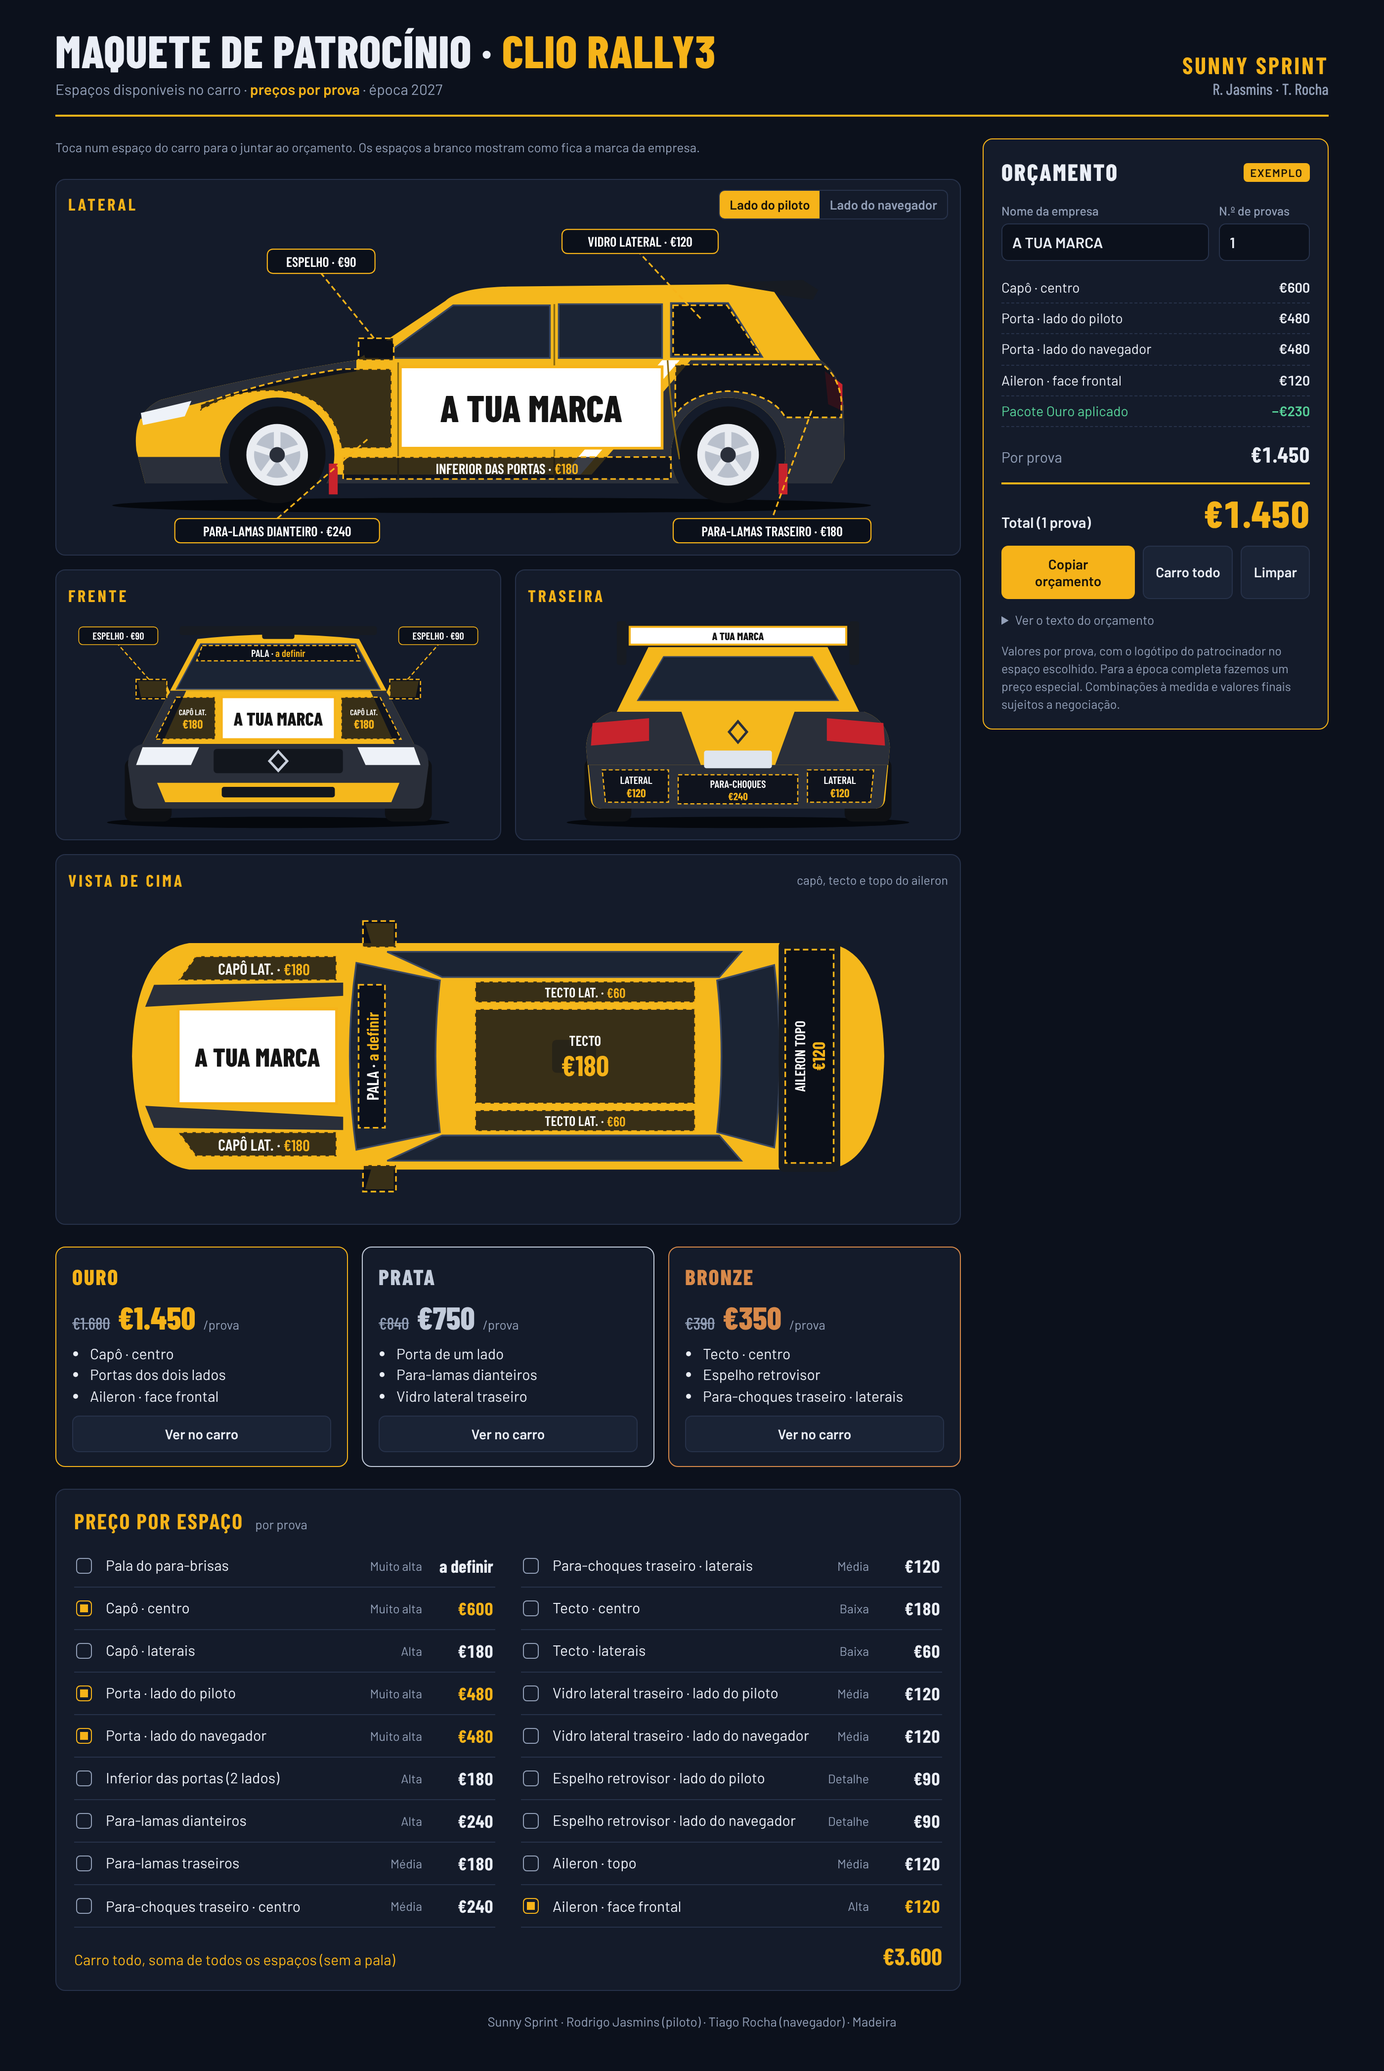
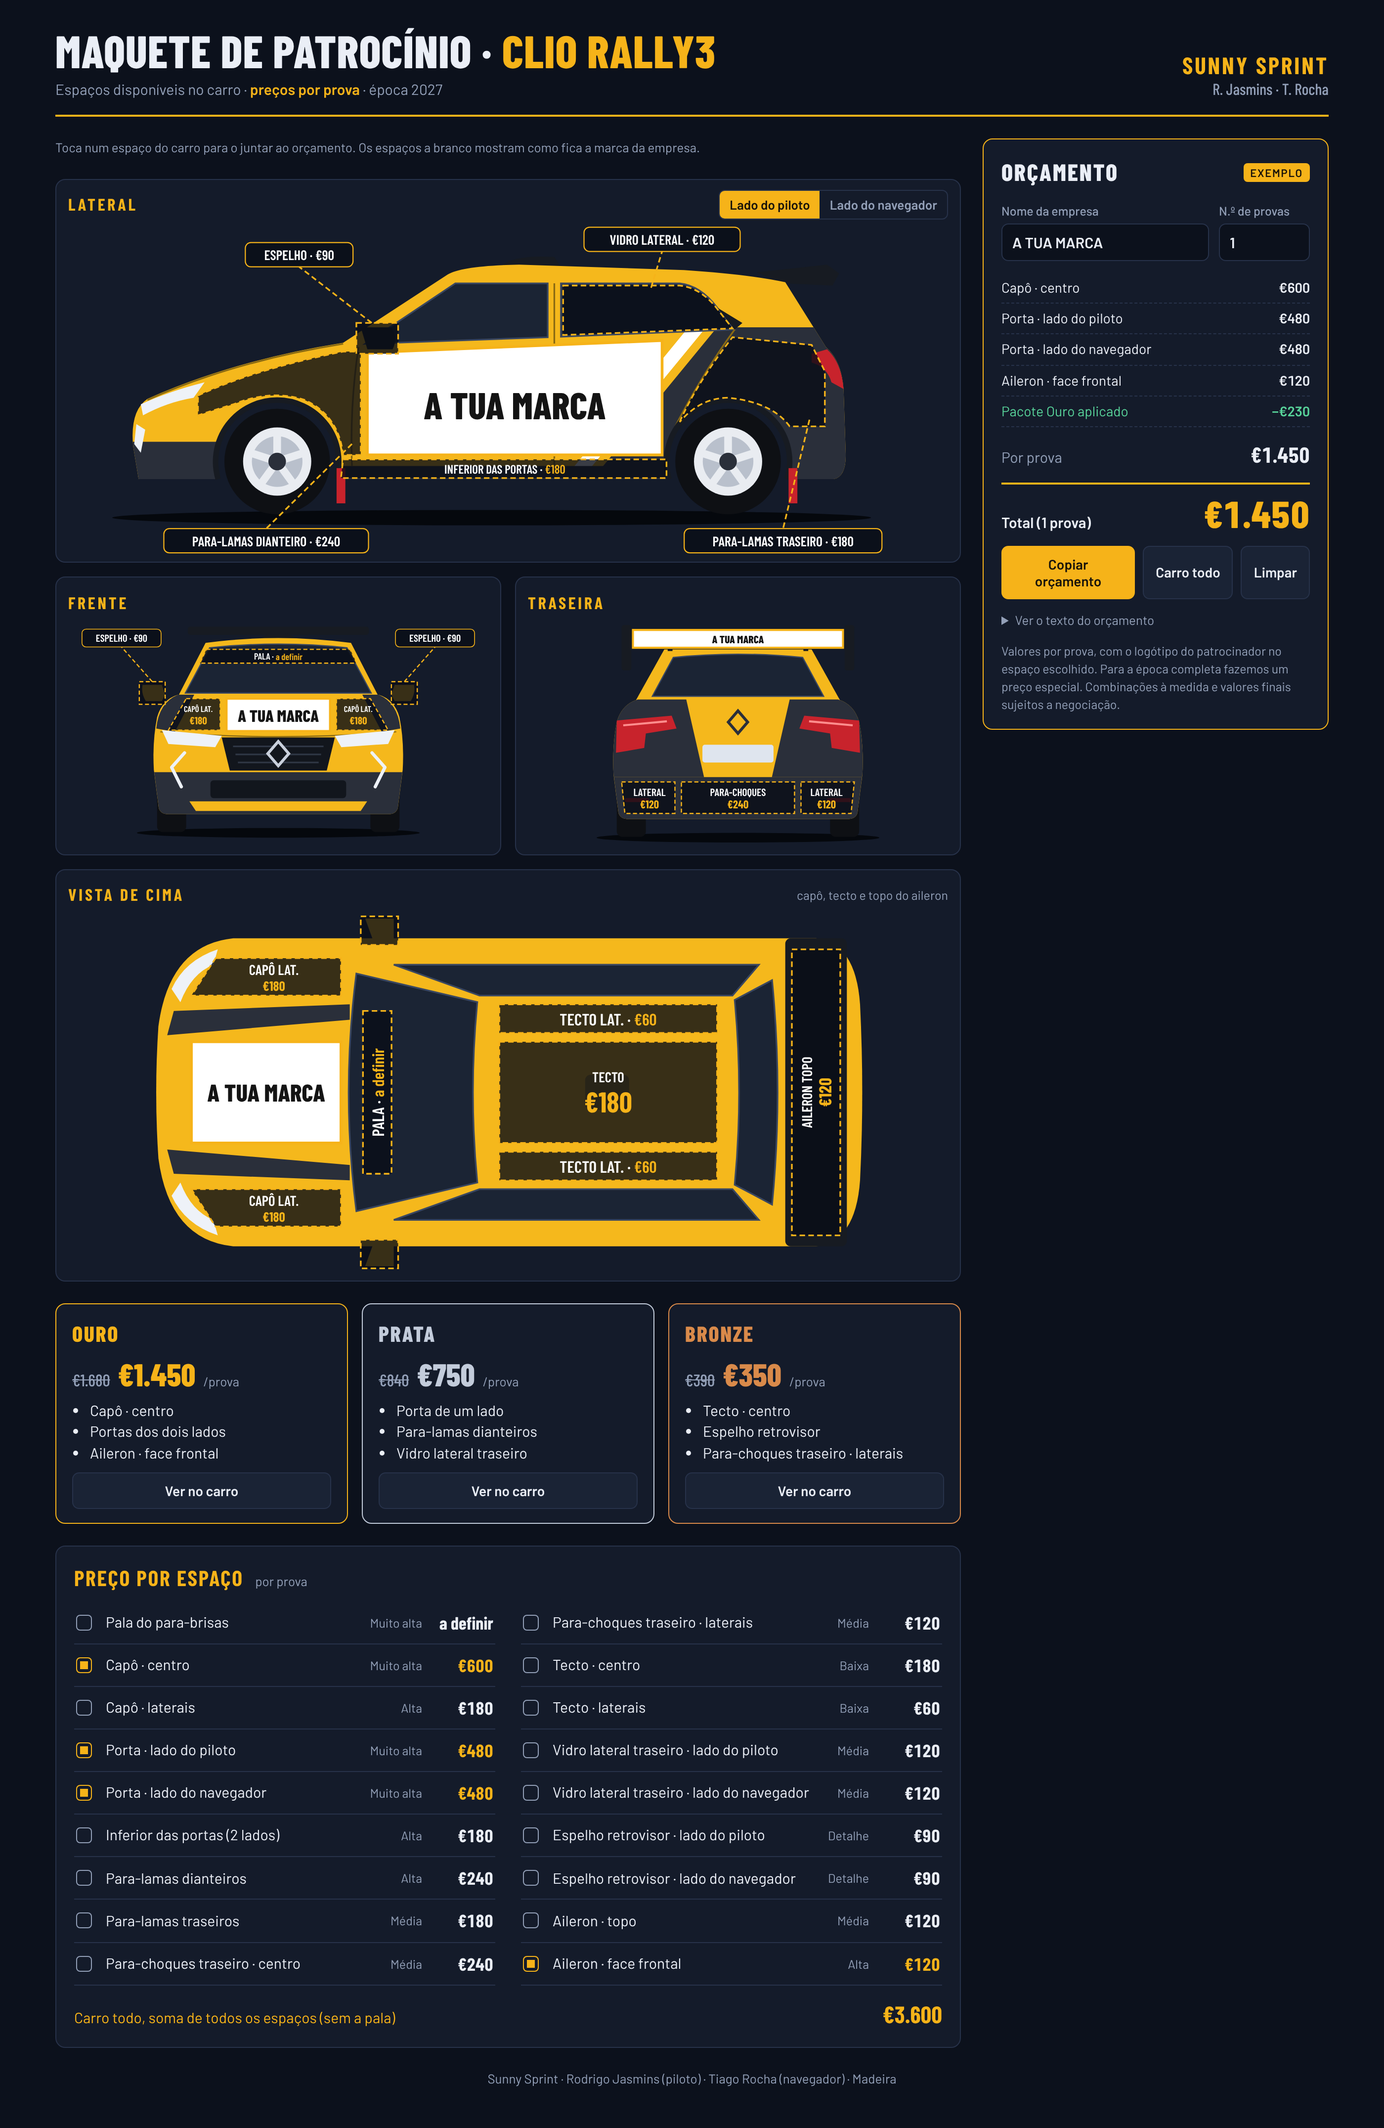
Maquete de patrocínio: desenhos redesenhados como Renault Clio 2024
Claude-Session: https://claude.ai/code/session_019YqaTtpEMJRoTKyhrNHvgL

diff --git a/patrocinio/maquete.html b/patrocinio/maquete.html
@@ -195,89 +195,104 @@ const esc = s => s.replace(/[&<>"]/g, c => ({'&':'&amp;','<':'&lt;','>':'&gt;','
 const price = id => Z[id].p == null ? 'a definir' : eur(Z[id].p);
 
 /* ---------- Desenhos do carro ---------- */
-const wheel = (x,y) => `<circle cx="${x}" cy="${y}" r="44" fill="#0e1014"/><circle cx="${x}" cy="${y}" r="28" fill="#e9ecf1"/>
-  <circle cx="${x}" cy="${y}" r="21" fill="#b9c0cc"/>${[0,72,144,216,288].map(a=>`<rect x="${x-3}" y="${y-27}" width="6" height="27" fill="#e9ecf1" transform="rotate(${a} ${x} ${y})"/>`).join('')}
-  <circle cx="${x}" cy="${y}" r="7" fill="#2a2f3a"/>`;
-const BODY = 'M70 262 L62 232 Q58 198 84 186 Q180 162 262 150 L343 96 Q356 84 400 83 L600 81 L642 88 L684 150 Q702 162 705 192 L706 240 L694 262 L645 262 A52 52 0 1 0 555 262 L235 262 A52 52 0 1 0 145 262 Z';
+/* Renault Clio (2024) à escala real: 4,05 m de comprimento, 1,80 m de largura, 2,58 m entre eixos. */
+const wheel = (x,y) => `<circle cx="${x}" cy="${y}" r="48" fill="#0e1014"/><circle cx="${x}" cy="${y}" r="31" fill="#e9ecf1"/>
+  <circle cx="${x}" cy="${y}" r="23" fill="#b9c0cc"/>${[0,72,144,216,288].map(a=>`<rect x="${x-3.5}" y="${y-30}" width="7" height="30" fill="#e9ecf1" transform="rotate(${a} ${x} ${y})"/>`).join('')}
+  <circle cx="${x}" cy="${y}" r="8" fill="#2a2f3a"/>`;
+const BODY = 'M64 248 L59 218 Q56 186 72 175 Q150 140 250 124 L345 62 Q358 54 410 53 L560 58 Q620 62 652 69 L689 128 Q703 140 705 166 L707 226 Q707 246 696 248 L653.7 248 A56 56 0 1 0 546.3 248 L243.7 248 A56 56 0 1 0 136.3 248 Z';
+const LOWER = 'M136 122 H384 Q404 128 410 150 Q416 180 414 215 L408 262 Q406 270 396 270 H124 Q114 270 112 262 L106 215 Q104 180 110 150 Q116 128 136 122Z';
+const BUMPER = 'M106.5 218 H413.5 L408 262 Q406 270 396 270 H124 Q114 270 112 262Z';
+const TYRES = '<rect x="110" y="236" width="36" height="56" rx="7" fill="#0e1014"/><rect x="374" y="236" width="36" height="56" rx="7" fill="#0e1014"/>';
 const CAR = {
 side:`<defs><clipPath id="sb"><path d="${BODY}"/></clipPath></defs>
-  <ellipse cx="385" cy="282" rx="345" ry="7" fill="#05080d"/>
-  <path d="M585 80 L668 77 L682 86 L677 95 L642 90 L600 84Z" fill="#171b22"/>
+  <ellipse cx="385" cy="283" rx="345" ry="7" fill="#05080d"/>
+  <path d="M626 60 L690 53 L701 61 L695 72 L650 70Z" fill="#171b22"/>
+  <path d="M394 54 Q406 44 442 46 L448 55Z" fill="#171b22"/>
   <path d="${BODY}" fill="var(--car)"/>
   <g clip-path="url(#sb)">
-    <path d="M462 270 L566 150 H720 V270Z" fill="var(--car-dark)"/><path d="M436 270 L540 150 H556 L452 270Z" fill="#fff"/>
-    <path d="M50 238 H150 V270 H50Z" fill="var(--car-dark)"/><path d="M230 254 H560 V270 H230Z" fill="var(--car-dark)"/>
-    <path d="M60 205 Q150 178 262 160 L262 150 Q150 166 60 192Z" fill="var(--car-dark)"/>
+    <path d="M470 256 L590 110 H720 V256Z" fill="var(--car-dark)"/><path d="M444 256 L564 110 H580 L460 256Z" fill="#fff"/>
+    <path d="M50 214 H150 V256 H50Z" fill="var(--car-dark)"/><path d="M236 236 H556 V256 H236Z" fill="var(--car-dark)"/>
   </g>
-  <path d="M284 148 L350 100 H438 V148Z M446 99 H540 V148 H446Z M548 98 H600 L631 147 H548Z" fill="var(--glass)" stroke="#3a4760" stroke-width="1.5"/>
-  <path d="M66 198 L112 187 L106 201 L68 209Z" fill="#eef2f8"/><path d="M688 160 L704 172 V196 L691 190Z" fill="#c8232c"/>
-  <path d="M300 152 V258 M442 99 V258 M545 150 Q548 200 556 240" stroke="#8a6a12" stroke-width="1.5" fill="none"/>
-  <path d="M266 132 H294 Q298 140 294 148 H270Z" fill="#171b22"/>
-  <rect x="237" y="244" width="8" height="28" fill="#c8232c"/><rect x="646" y="244" width="8" height="28" fill="#c8232c"/>
-  ${wheel(190,236)}${wheel(600,236)}`,
-front:`<ellipse cx="260" cy="293" rx="212" ry="7" fill="#05080d"/>
-  <rect x="70" y="214" width="58" height="78" rx="10" fill="#0e1014"/><rect x="392" y="214" width="58" height="78" rx="10" fill="#0e1014"/>
-  <rect x="138" y="50" width="244" height="11" rx="3" fill="#171b22"/>
-  <path d="M160 66 Q260 55 360 66 L394 130 H126Z" fill="var(--car)"/>
-  <path d="M164 72 H356 L386 128 H134Z" fill="var(--glass)" stroke="#3a4760" stroke-width="1.5"/>
-  <rect x="240" y="55" width="40" height="11" rx="3" fill="#171b22"/>
-  <path d="M126 130 H394 L428 196 H92Z" fill="var(--car)"/>
-  <path d="M126 130 H146 L116 196 H92Z M394 130 H374 L404 196 H428Z" fill="var(--car-dark)"/>
-  <path d="M92 196 H428 Q446 200 446 222 L440 268 Q438 276 428 276 H92 Q82 276 80 268 L74 222 Q74 200 92 196Z" fill="var(--car-dark)"/>
-  <path d="M92 200 H162 L152 222 H84Z M428 200 H358 L368 222 H436Z" fill="#eef2f8"/>
-  <rect x="180" y="202" width="160" height="30" rx="4" fill="#12161d"/>
-  <path d="M260 205 L271 217 L260 229 L249 217Z" fill="none" stroke="#c9d0dc" stroke-width="3"/>
-  <path d="M110 244 H410 L400 268 H120Z" fill="var(--car)"/><rect x="190" y="249" width="140" height="13" rx="3" fill="#12161d"/>
-  <path d="M86 118 H120 L126 132 L122 138 H90Z M434 118 H400 L394 132 L398 138 H430Z" fill="var(--car)"/>`,
-rear:`<ellipse cx="260" cy="293" rx="212" ry="7" fill="#05080d"/>
-  <rect x="70" y="214" width="58" height="78" rx="10" fill="#0e1014"/><rect x="392" y="214" width="58" height="78" rx="10" fill="#0e1014"/>
-  <path d="M152 70 Q260 60 368 70 L412 160 H108Z" fill="var(--car)"/>
-  <path d="M168 88 H352 L384 142 H136Z" fill="var(--glass)" stroke="#3a4760" stroke-width="1.5"/>
-  <path d="M104 156 H416 Q446 166 448 200 L442 266 Q440 276 428 276 H92 Q80 276 78 266 L72 200 Q74 166 104 156Z" fill="var(--car)"/>
-  <path d="M104 156 H190 L214 222 H74 L72 200 Q74 166 104 156Z M416 156 H330 L306 222 H446 L448 200 Q446 166 416 156Z" fill="var(--car-dark)"/>
-  <path d="M75 222 H445 L440 268 Q438 276 428 276 H92 Q82 276 80 268Z" fill="var(--car-dark)"/>
-  <path d="M80 170 L150 164 V192 L78 198Z M440 170 L370 164 V192 L442 198Z" fill="#c8232c"/>
-  <path d="M260 168 L271 181 L260 194 L249 181Z" fill="none" stroke="#2a2f3a" stroke-width="3"/>
-  <rect x="218" y="204" width="84" height="22" rx="3" fill="#dfe5ee"/>
-  <rect x="110" y="44" width="12" height="54" rx="3" fill="#171b22"/><rect x="398" y="44" width="12" height="54" rx="3" fill="#171b22"/>
-  <rect x="118" y="48" width="284" height="28" rx="4" fill="#171b22"/>`,
-top:`<path d="M270 44 h26 v20 h-20z M270 286 h26 v-20 h-20z" fill="var(--car)"/>
-  <path d="M110 62 Q60 70 58 165 Q60 260 110 268 L690 268 Q740 262 742 165 Q740 68 690 62 Z" fill="var(--car)"/>
-  <path d="M70 120 L250 110 V98 L78 100Z M70 210 L250 220 V232 L78 230Z" fill="var(--car-dark)"/>
-  <path d="M262 80 Q250 165 262 250 L338 234 Q330 165 338 96 Z M590 96 Q598 165 590 234 L642 248 Q652 165 642 82Z M290 70 H612 L592 93 H340Z M290 260 H612 L592 237 H340Z" fill="var(--glass)" stroke="#3a4760" stroke-width="1.5"/>
-  <rect x="440" y="150" width="40" height="30" rx="4" fill="#171b22" opacity=".35"/>
-  <rect x="646" y="60" width="56" height="210" rx="5" fill="#171b22"/>`
+  <path d="M270 125 L352 70 H436 V119Z M448 70 H556 Q575 72 590 92 L606 112 L448 118.5Z" fill="var(--glass)" stroke="#3a4760" stroke-width="1.5"/>
+  <path d="M590 92 L613 106 L606 112Z" fill="#171b22"/>
+  <path d="M66 180 Q92 168 124 160 L114 174 Q90 178 68 190Z" fill="#eef2f8"/>
+  <path d="M62 198 L70 203 L66 224 L60 216Z" fill="#eef2f8"/>
+  <path d="M676 134 L690 130 Q703 142 705 166 L694 160 Q690 146 676 142Z" fill="#c8232c"/>
+  <path d="M264 128 Q256 180 258 236 M442 70 V244 M606 112 Q578 150 552 200 M72 176 Q150 141 250 125" stroke="#8a6a12" stroke-width="1.5" fill="none"/>
+  <path d="M398 138 h26" stroke="#2a2f3a" stroke-width="4" stroke-linecap="round"/>
+  <path d="M266 110 H294 Q300 120 295 130 H272Z" fill="#171b22"/>
+  <path d="M136.3 248 A56 56 0 1 1 243.7 248 M546.3 248 A56 56 0 1 1 653.7 248" fill="none" stroke="#171b22" stroke-width="5"/>
+  <rect x="244" y="238" width="8" height="32" fill="#c8232c"/><rect x="655" y="238" width="8" height="32" fill="#c8232c"/>
+  ${wheel(190,232)}${wheel(600,232)}`,
+front:`<ellipse cx="260" cy="293" rx="175" ry="6" fill="#05080d"/>${TYRES}
+  <rect x="148" y="38" width="224" height="10" rx="3" fill="#171b22"/>
+  <path d="M238 52 Q260 38 282 52Z" fill="#171b22"/>
+  <path d="M170 58 Q260 46 350 58 L384 124 H136Z" fill="var(--car)"/>
+  <path d="M175 64 Q260 55 345 64 L375 120 H145Z" fill="var(--glass)" stroke="#3a4760" stroke-width="1.5"/>
+  <path d="${LOWER}" fill="var(--car)"/>
+  <path d="M136 122 H156 L132 168 L109 164 Q112 132 136 122Z M384 122 H364 L388 168 L411 164 Q408 132 384 122Z" fill="var(--car-dark)"/>
+  <path d="${BUMPER}" fill="var(--car-dark)"/>
+  <path d="M114 168 Q260 180 406 168" stroke="#8a6a12" stroke-width="1.5" fill="none"/>
+  <path d="M116 166 L190 173 L182 187 L124 183Z M404 166 L330 173 L338 187 L396 183Z" fill="#eef2f8"/>
+  <path d="M190 175 H330 L320 216 H200Z" fill="#12161d"/>
+  <path d="M204 186 H316 M207 196 H313 M210 206 H310" stroke="#2f3745" stroke-width="2"/>
+  <path d="M260 180 L273 195 L260 210 L247 195Z" fill="#12161d" stroke="#c9d0dc" stroke-width="3.5"/>
+  <path d="M144 194 L128 212 L140 236 M376 194 L392 212 L380 236" stroke="#eef2f8" stroke-width="4" fill="none" stroke-linejoin="round" stroke-linecap="round"/>
+  <rect x="176" y="228" width="168" height="22" rx="4" fill="#12161d"/>
+  <path d="M150 254 H370 L362 266 H158Z" fill="var(--car)"/>
+  <path d="M92 110 H116 L120 122 L116 130 H96 Q90 120 92 110Z M428 110 H404 L400 122 L404 130 H424 Q430 120 428 110Z" fill="var(--car)"/>`,
+rear:`<ellipse cx="260" cy="293" rx="175" ry="6" fill="#05080d"/>${TYRES}
+  <path d="M170 58 Q260 46 350 58 L388 126 H132Z" fill="var(--car)"/>
+  <path d="M180 70 Q260 62 340 70 L366 118 H154Z" fill="var(--glass)" stroke="#3a4760" stroke-width="1.5"/>
+  <path d="${LOWER}" fill="var(--car)"/>
+  <path d="M136 122 H196 L218 218 H106.5 L106 215 Q104 180 110 150 Q116 128 136 122Z M384 122 H324 L302 218 H413.5 L414 215 Q416 180 410 150 Q404 128 384 122Z" fill="var(--car-dark)"/>
+  <path d="${BUMPER}" fill="var(--car-dark)"/>
+  <path d="M110 148 L178 142 L184 158 L146 164 L144 182 L109 188Z M410 148 L342 142 L336 158 L374 164 L376 182 L411 188Z" fill="#c8232c"/>
+  <path d="M118 154 L172 149 M402 154 L348 149" stroke="#ff8d8d" stroke-width="2.5"/>
+  <path d="M260 136 L272 150 L260 164 L248 150Z" fill="none" stroke="#2a2f3a" stroke-width="3.5"/>
+  <rect x="216" y="178" width="88" height="22" rx="3" fill="#dfe5ee"/>
+  <rect x="120" y="244" width="30" height="5" rx="2" fill="#c8232c"/><rect x="370" y="244" width="30" height="5" rx="2" fill="#c8232c"/>
+  <path d="M176 62 V44 M344 62 V44" stroke="#171b22" stroke-width="6"/>
+  <rect x="116" y="30" width="12" height="56" rx="3" fill="#171b22"/><rect x="392" y="30" width="12" height="56" rx="3" fill="#171b22"/>
+  <rect x="124" y="34" width="272" height="26" rx="4" fill="#171b22"/>`,
+top:`<path d="M270 12 h26 v22 h-18z M270 328 h26 v-22 h-18z" fill="var(--car)"/>
+  <path d="M150 30 Q92 36 82 110 Q78 170 82 230 Q92 304 150 310 L680 310 Q716 306 720 250 Q724 170 720 90 Q716 34 680 30Z" fill="var(--car)"/>
+  <path d="M90 118 L256 104 V90 L96 96Z M90 222 L256 236 V250 L96 244Z" fill="var(--car-dark)"/>
+  <path d="M94 76 Q106 50 136 40 L132 54 Q112 62 102 88Z M94 264 Q106 290 136 300 L132 286 Q112 278 102 252Z" fill="#eef2f8"/>
+  <path d="M262 62 Q248 170 262 278 L372 252 Q364 170 372 88Z M606 86 Q614 170 606 254 L640 272 Q650 170 640 68Z M296 54 H628 L604 82 H374Z M296 286 H628 L604 258 H374Z" fill="var(--glass)" stroke="#3a4760" stroke-width="1.5"/>
+  <rect x="470" y="154" width="40" height="32" rx="5" fill="#171b22" opacity=".35"/>
+  <rect x="652" y="30" width="56" height="280" rx="5" fill="#171b22"/>`
 };
 /* Zonas por vista. box = caixa do texto [x,y,l,a]; chip = etiqueta fora da peça com linha a partir de from. */
 const VIEWS = {
-  side:{vb:'0 22 800 300', mirror:true, zones:[
-    {id:'porta', sh:[{d:'M302 156 H540 V230 H302Z', box:[302,156,238,74]}]},
-    {id:'portas-inf', sh:[{d:'M250 238 H548 V258 H250Z', box:[250,238,298,20]}]},
-    {id:'pl-d', sh:[{d:'M120 190 Q190 166 250 158 H294 V230 H248 Q242 190 205 180 Q160 172 120 196Z', chip:[190,305], from:[272,222]}]},
-    {id:'pl-t', sh:[{d:'M552 154 H686 Q700 164 703 186 V202 H652 Q640 180 600 178 Q565 180 552 200Z', chip:[640,305], from:[676,196]}]},
-    {id:'vidro', sh:[{d:'M550 100 H599 L629 145 H550Z', chip:[520,42], from:[575,112]}]},
-    {id:'esp', sh:[{d:'M264 130 H296 V150 H264Z', chip:[230,60], from:[278,130]}]}
+  side:{vb:'0 12 800 306', mirror:true, zones:[
+    {id:'porta', sh:[{d:'M272 133 L540 122 V226 H272Z', box:[272,136,268,88]}]},
+    {id:'portas-inf', sh:[{d:'M250 230 H544 V247 H248Z', box:[250,230,294,17]}]},
+    {id:'pl-d', sh:[{d:'M118 172 Q170 148 250 132 H266 V226 H250 Q246 190 215 176 Q185 166 150 180 Q130 186 118 190Z', chip:[180,304], from:[258,216]}]},
+    {id:'pl-t', sh:[{d:'M556 196 Q572 160 604 119 L676 126 L688 150 V200 H656 Q640 178 600 174 Q575 174 556 196Z', chip:[650,304], from:[674,194]}]},
+    {id:'vidro', sh:[{d:'M450 72 H556 Q575 74 590 93 L604 111 L450 117Z', chip:[540,30], from:[530,74]}]},
+    {id:'esp', sh:[{d:'M262 106 H300 V134 H262Z', chip:[210,44], from:[276,106]}]}
   ]},
-  front:{vb:'0 30 520 276', zones:[
-    {id:'pala', sh:[{d:'M166 74 H354 L361 93 H159Z', box:[166,74,188,19]}]},
-    {id:'capo-c', sh:[{d:'M190 138 H330 V190 H190Z', box:[190,138,140,52]}]},
-    {id:'capo-l', sh:[{d:'M134 138 H182 V190 H108Z', box:[128,144,52,42]},{d:'M338 138 H386 L412 190 H338Z', box:[340,144,52,42]}]},
-    {id:'esp-n', sh:[{d:'M84 116 H122 V140 H84Z', chip:[62,62], from:[100,116]}]},
-    {id:'esp-p', sh:[{d:'M398 116 H436 V140 H398Z', chip:[458,62], from:[420,116]}]}
+  front:{vb:'0 26 520 280', zones:[
+    {id:'pala', sh:[{d:'M171 66 H349 L357 83 H163Z', box:[171,66,178,17]}]},
+    {id:'capo-c', sh:[{d:'M196 127 H324 V167 H196Z', box:[196,127,128,40]}]},
+    {id:'capo-l', sh:[{d:'M146 127 H188 V166 H124Z', box:[134,129,54,36]},{d:'M332 127 H374 L396 166 H332Z', box:[332,129,54,36]}]},
+    {id:'esp-n', sh:[{d:'M88 106 H120 V134 H88Z', chip:[66,52], from:[104,106]}]},
+    {id:'esp-p', sh:[{d:'M400 106 H432 V134 H400Z', chip:[454,52], from:[416,106]}]}
   ]},
-  rear:{vb:'0 30 520 276', zones:[
-    {id:'ail-f', sh:[{d:'M126 51 H394 V73 H126Z', box:[126,51,268,22]}]},
-    {id:'pc-c', sh:[{d:'M186 234 H334 V270 H186Z', box:[186,234,148,36]}]},
-    {id:'pc-l', sh:[{d:'M92 228 H174 V268 H96Z', box:[96,228,76,40]},{d:'M346 228 H428 L424 268 H346Z', box:[348,228,76,40]}]}
+  rear:{vb:'0 20 520 286', zones:[
+    {id:'ail-f', sh:[{d:'M130 36 H390 V58 H130Z', box:[130,36,260,22]}]},
+    {id:'pc-c', sh:[{d:'M190 224 H330 V263 H190Z', box:[190,224,140,39]}]},
+    {id:'pc-l', sh:[{d:'M116 224 H182 V263 H120Z', box:[119,224,63,39]},{d:'M338 224 H404 L400 263 H338Z', box:[338,224,63,39]}]}
   ]},
-  top:{vb:'0 18 800 294', zones:[
-    {id:'capo-c', sh:[{d:'M100 122 H244 V208 H100Z', box:[100,122,144,86]}]},
-    {id:'capo-l', sh:[{d:'M116 74 H244 V96 H100Z', box:[112,74,132,22]},{d:'M100 234 H244 V256 H116Z', box:[112,234,132,22]}]},
-    {id:'pala', sh:[{d:'M264 100 H288 V230 H264Z', box:[264,100,24,130], rot:1}]},
-    {id:'tecto-c', sh:[{d:'M370 122 H570 V208 H370Z', box:[370,122,200,86]}]},
-    {id:'tecto-l', sh:[{d:'M370 97 H570 V116 H370Z', box:[370,97,200,19]},{d:'M370 214 H570 V233 H370Z', box:[370,214,200,19]}]},
-    {id:'ail-t', sh:[{d:'M652 68 H696 V262 H652Z', box:[652,68,44,194], rot:1}]},
-    {id:'esp-n', sh:[{d:'M268 42 H298 V66 H268Z'}]},{id:'esp-p', sh:[{d:'M268 264 H298 V288 H268Z'}]}
+  top:{vb:'0 4 800 332', zones:[
+    {id:'capo-c', sh:[{d:'M112 124 H248 V216 H112Z', box:[112,124,136,92]}]},
+    {id:'capo-l', sh:[{d:'M134 48 H248 V82 H112Z', box:[126,48,122,34]},{d:'M112 258 H248 V292 H134Z', box:[126,258,122,34]}]},
+    {id:'pala', sh:[{d:'M268 96 H294 V244 H268Z', box:[268,96,26,148], rot:1}]},
+    {id:'tecto-c', sh:[{d:'M392 124 H590 V216 H392Z', box:[392,124,198,92]}]},
+    {id:'tecto-l', sh:[{d:'M392 90 H590 V116 H392Z', box:[392,90,198,26]},{d:'M392 224 H590 V250 H392Z', box:[392,224,198,26]}]},
+    {id:'ail-t', sh:[{d:'M658 40 H702 V300 H658Z', box:[658,40,44,260], rot:1}]},
+    {id:'esp-n', sh:[{d:'M266 10 H300 V36 H266Z'}]},{id:'esp-p', sh:[{d:'M266 304 H300 V330 H266Z'}]}
   ]}
 };
 
@@ -317,7 +332,7 @@ function drawView(key){
     labels += `<g class="z${on?' on':''}" style="pointer-events:none">${zn.sh.map(s=>labelSVG(id, s, on, mir)).join('')}</g>`;
   }
   const g = mir ? `<g transform="translate(800 0) scale(-1 1)">` : '<g>';
-  const what = {side:'Lateral do Clio Rally3', front:'Frente do Clio Rally3', rear:'Traseira do Clio Rally3', top:'Clio Rally3 visto de cima'}[key];
+  const what = {side:'Lateral do Renault Clio Rally3', front:'Frente do Clio Rally3', rear:'Traseira do Clio Rally3', top:'Clio Rally3 visto de cima'}[key];
   $('v-'+key).innerHTML = `<svg viewBox="${v.vb}" role="img" aria-label="${what} com os espaços de patrocínio">${g}${CAR[key]}${shapes}</g>${labels}</svg>`;
 }
 
